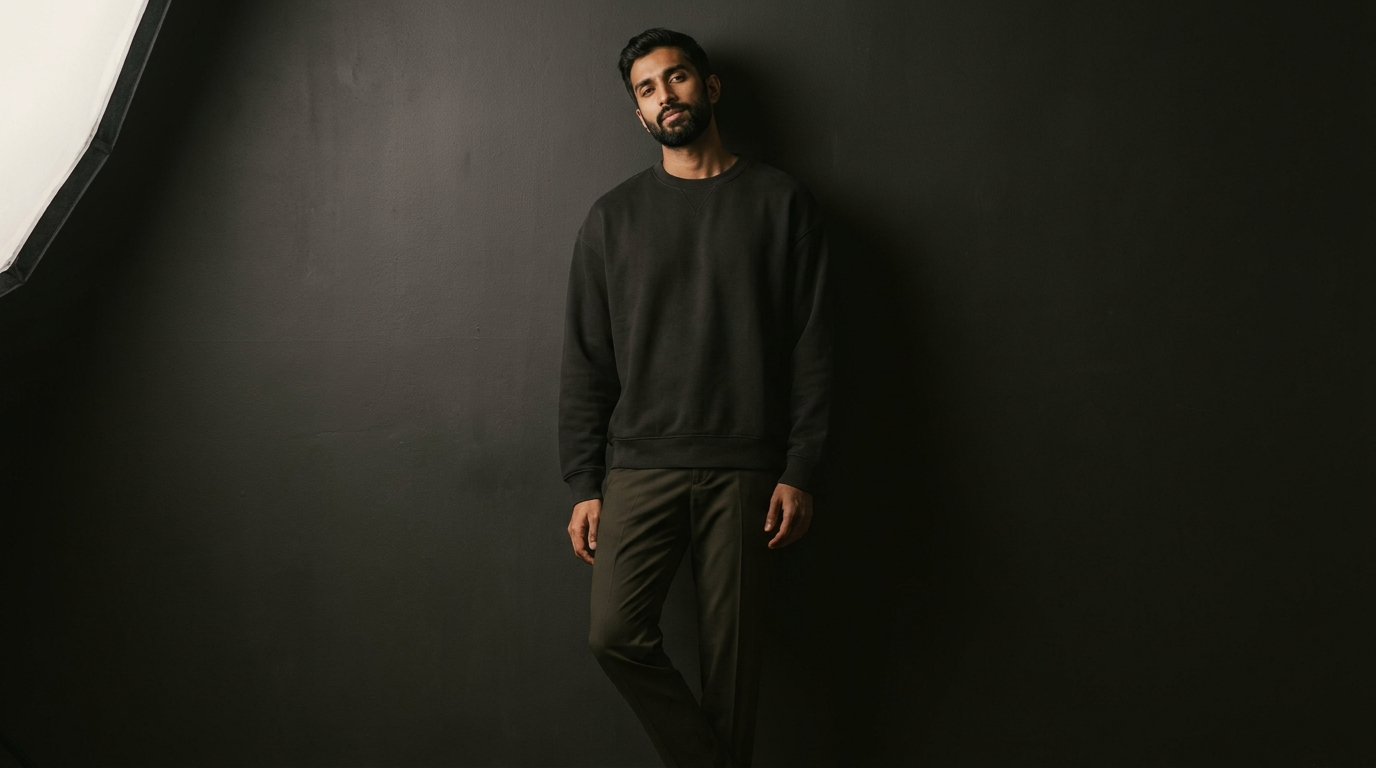
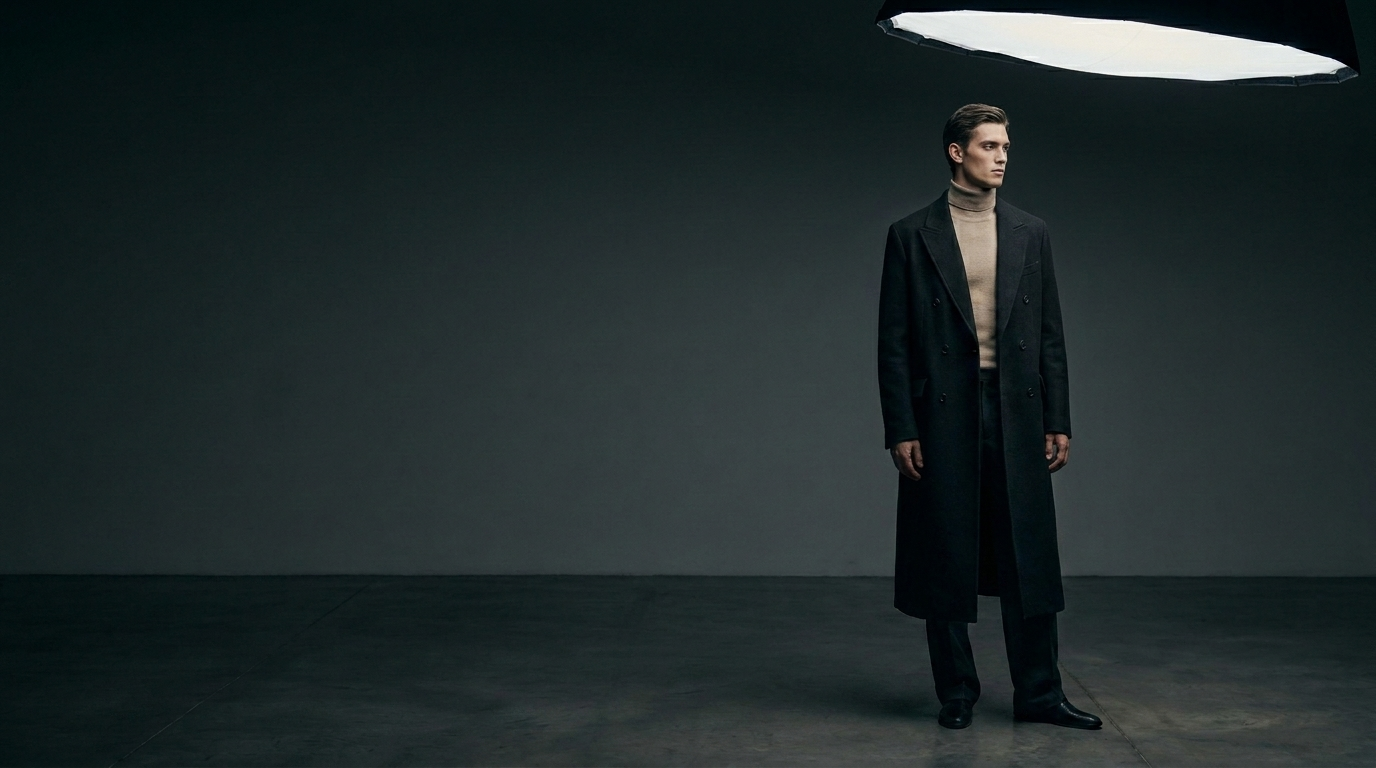
Feat: blend bottom of men/women collection hero background with body background

diff --git a/js/pages/collection.js b/js/pages/collection.js
@@ -320,13 +320,14 @@ function loadCollectionPage() {
 
             if (category === 'men' || category === 'women') {
                 const imagePath = category === 'men' ? 'assets/men hero.jpeg' : 'assets/women hero.jpeg';
-                heroSection.style.backgroundImage = `linear-gradient(to bottom, rgba(10, 10, 10, 0.3), rgba(10, 10, 10, 0.75)), url('${imagePath}')`;
+                heroSection.style.backgroundImage = `linear-gradient(to bottom, rgba(10, 10, 10, 0.2) 0%, rgba(10, 10, 10, 0.4) 60%, rgba(10, 10, 10, 1) 100%), url('${imagePath}')`;
                 heroSection.style.backgroundSize = "cover";
                 heroSection.style.backgroundPosition = "center top";
                 heroSection.style.minHeight = "100vh";
                 heroSection.style.display = "flex";
                 heroSection.style.flexDirection = "column";
                 heroSection.style.justifyContent = "center";
+                heroSection.style.borderBottom = "none";
                 
                 const contentEl = heroSection.querySelector('.collection-hero-content');
                 if (contentEl) {
@@ -341,6 +342,7 @@ function loadCollectionPage() {
                 heroSection.style.display = "";
                 heroSection.style.flexDirection = "";
                 heroSection.style.justifyContent = "";
+                heroSection.style.borderBottom = "";
                 
                 const contentEl = heroSection.querySelector('.collection-hero-content');
                 if (contentEl) {